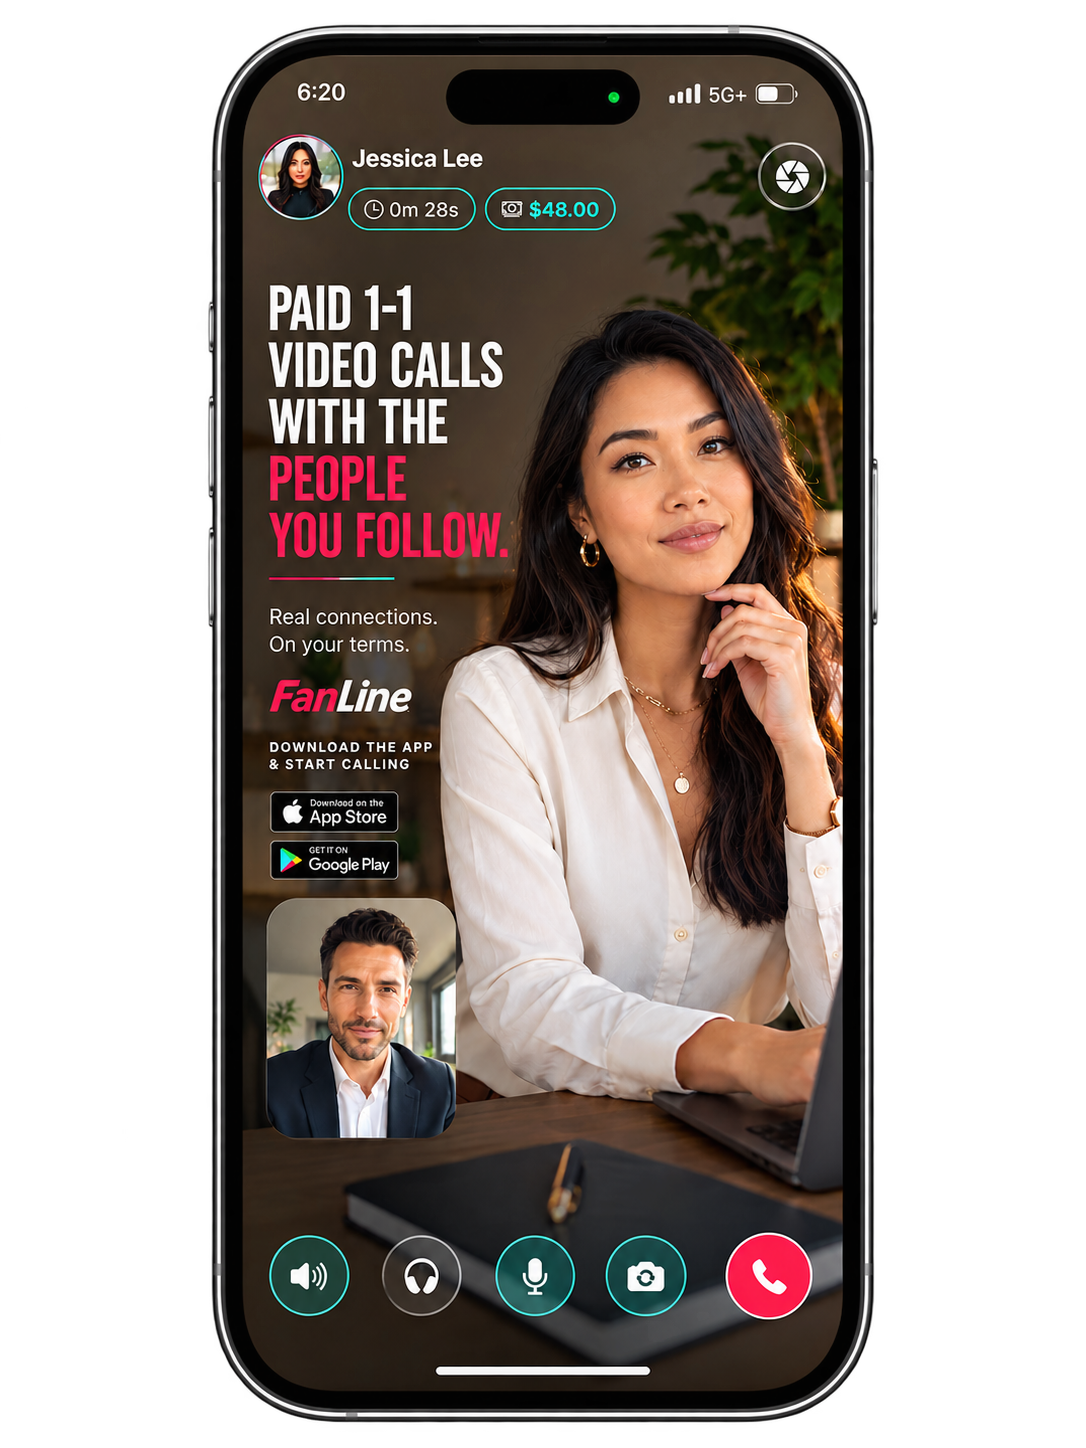
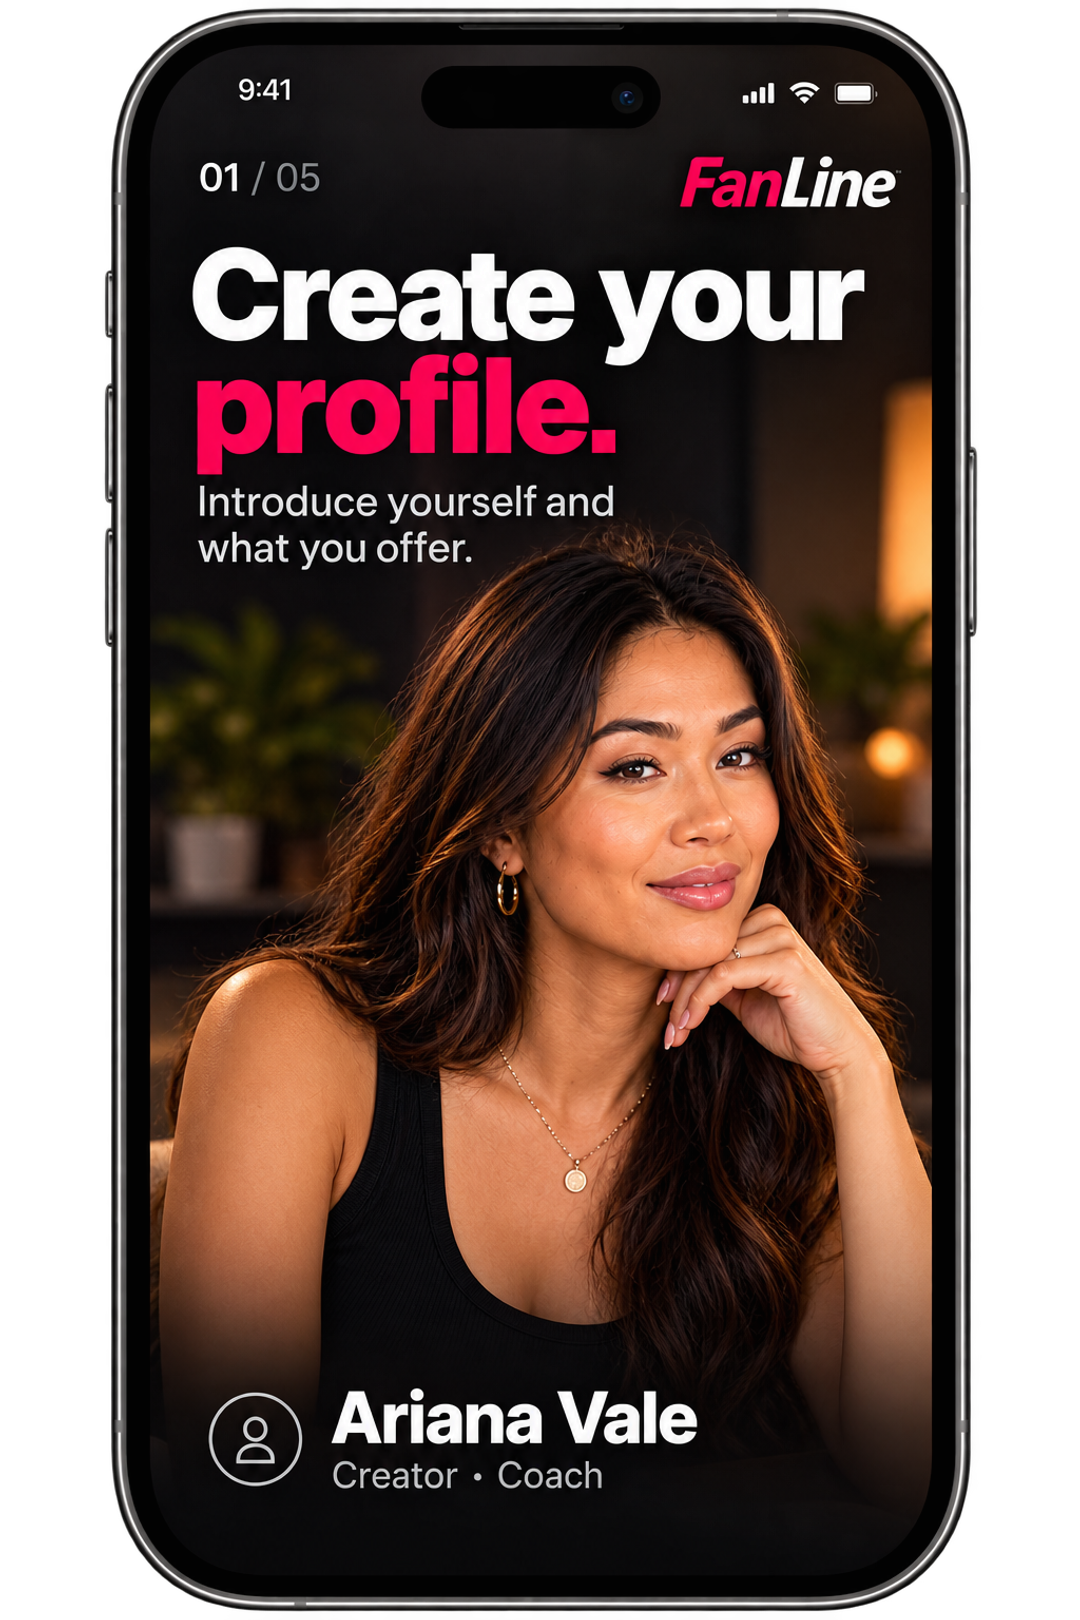
promo carousel update and storefront

diff --git a/app/data/apps.js b/app/data/apps.js
@@ -16,65 +16,66 @@ export const apps = [
   {
     id: "fanline",
     path: "/fanline",
-    name: "FanLine: Influencer Access",
-    storeName: "FanLine: Influencer Access",
-    eyebrow: "Direct access to influencers and creators",
-    status: "Now live on iOS - Also available on Android",
-    headline: "Connect one-on-one with the people you follow.",
+    name: "FanLine: Content Creator Tools",
+    storeName: "FanLine: Content Creator Tools",
+    eyebrow: "Paid Calls, Messages, Bookings",
+    status: "Available on iOS and Android",
+    headline: "Earn from your time, knowledge, and audience.",
     description:
-      "FanLine: Influencer Access brings you closer to influencers, creators, and experts through private video calls, direct messages, and scheduled bookings. Ask questions, get advice, or pitch a collaboration with clear pricing before you connect.",
+      "FanLine: Content Creator Tools helps creators, coaches, and experts offer paid video calls, personal replies, and scheduled bookings. Set your prices and bring followers to your profile with one shareable link.",
     longDescription:
-      "Find creators who are available now or book a private conversation for later. Explore profiles and intro videos, send a message, or reach out about a brand deal, podcast appearance, or business opportunity. Creators set their own call and message rates, manage availability, and choose the opportunities they welcome. Paid calls are charged only when they connect; paid messages are charged when you choose to unlock the creator's response.",
+      "FanLine: Content Creator Tools helps creators, coaches, and experts offer paid video calls, personal replies, and scheduled bookings. Set your prices and bring followers to your profile with one shareable link.",
     disclaimer:
       "FanLine creators are independent users. Information shared through FanLine is not a substitute for medical, legal, financial, or other professional advice.",
     logo: "/assets/fanline/fanlineLogo.png",
-    poster: "/assets/fanline/appStoreFront/app1.png",
+    poster: "/assets/fanline/newStoreFront/app1.png",
     video: null,
     accent: "#00ddeb",
     accentAlt: "#ff174f",
     theme: "fanline",
     website: "https://joinfanline.com/",
-    schemaCategory: "SocialNetworkingApplication",
+    schemaCategory: "BusinessApplication",
     platforms: ["iOS", "Android"],
     highlights: [
-      "Paid one-on-one video calls",
-      "Private paid messages and scheduled bookings",
-      "Creator profiles with rates, availability, and categories",
-      "Secure payments with no charge unless a call connects or a message is unlocked",
-      "Trust, reporting, and verification workflows for safer access",
+      "Set your per-minute video call rate",
+      "Earn when followers unlock your personal replies",
+      "Manage your availability and scheduled bookings",
+      "Share one profile link across your social channels",
+      "Track earnings from calls, messages, and creator referrals",
     ],
+    featuresHeading: "Grow your creator business",
     detailSections: [
       {
-        title: "Direct creator access",
-        body: "Fans can browse creators by name, category, price, or availability, then start a call, send a message, or book a time that fits both sides.",
+        title: "Get paid for your expertise",
+        body: "Offer private calls and paid replies at prices you control.",
       },
       {
-        title: "Creator monetization",
-        body: "Creators can set call and message rates, show public profiles, manage availability, and turn high-intent followers into paid conversations.",
+        title: "Bring your audience with you",
+        body: "Add your profile link to your bio, posts, or website so followers can reach you directly.",
       },
       {
-        title: "Clear payments and trust",
-        body: "FanLine is built around transparent pricing, secure payments, creator review workflows, reporting tools, and access controls for paid one-on-one conversations.",
+        title: "Make room for bookings",
+        body: "Choose available times and manage requests around your creator business.",
       },
     ],
     seo: {
-      title: "FanLine: Influencer Access | Video Calls & Messages",
+      title: "FanLine: Content Creator Tools | Paid Calls, Messages, Bookings",
       description:
-        "Get FanLine: Influencer Access on iOS. Video call influencers, message creators, book expert conversations, and pitch collaborations with clear pricing.",
+        "FanLine: Content Creator Tools for iOS and Android. Earn from paid calls, messages, and bookings. Set your rates and share your creator profile.",
       keywords: [
-        "FanLine: Influencer Access",
-        "influencer access",
+        "FanLine: Content Creator Tools",
+        "content creator tools",
         "creator calls",
         "paid video calls",
         "paid messages",
         "creator booking app",
-        "fan access app",
+        "creator profile link",
         "creator monetization",
         "Real Connection Lab",
       ],
     },
-    ogImage: "/assets/fanline/appStoreFront/app1.png",
-    lastModified: "2026-09-10",
+    ogImage: "/assets/fanline/newStoreFront/app1.png",
+    lastModified: "2026-10-21",
     sitemapPriority: 0.82,
     sitemapChangeFrequency: "weekly",
     links: [
@@ -90,58 +91,48 @@ export const apps = [
       },
     ],
     screenshotPreview: true,
-    screenshots: [
-      "/assets/fanline/appStoreFront/app1.png",
-      "/assets/fanline/appStoreFront/app2.png",
-      "/assets/fanline/appStoreFront/app3.png",
-      "/assets/fanline/appStoreFront/app4.png",
-      "/assets/fanline/appStoreFront/app5.png",
-      "/assets/fanline/appStoreFront/app6.png",
-      "/assets/fanline/appStoreFront/app7.png",
-    ],
-    screenshotDimensions: [
-      { width: 1260, height: 2736 },
-      { width: 1290, height: 2796 },
-      { width: 1290, height: 2796 },
-      { width: 1260, height: 2736 },
-      { width: 1260, height: 2736 },
-      { width: 1260, height: 2736 },
-      { width: 1260, height: 2736 },
-    ],
+    screenshots: Array.from({ length: 10 }, (_, index) => `/assets/fanline/newStoreFront/app${index + 1}.png`),
+    screenshotDimensions: Array.from({ length: 10 }, () => ({ width: 1320, height: 2868 })),
     promoImages: [
       {
-        src: "/assets/fanline/promoCarousel/promo1.png",
-        alt: "FanLine promotional slide 1",
-        width: 1086,
-        height: 1448,
+        src: "/assets/fanline/promoCarousel/promo1.png?v=8af3752701",
+        alt: "Create your FanLine creator profile",
+        width: 1080,
+        height: 1620,
       },
       {
-        src: "/assets/fanline/promoCarousel/promo2.png",
-        alt: "FanLine promotional slide 2",
-        width: 1024,
-        height: 1536,
+        src: "/assets/fanline/promoCarousel/promo2.png?v=564fa0fd46",
+        alt: "Set your FanLine rates and availability",
+        width: 1080,
+        height: 1620,
       },
       {
-        src: "/assets/fanline/promoCarousel/promo3.png",
-        alt: "FanLine promotional slide 3",
-        width: 1024,
-        height: 1536,
+        src: "/assets/fanline/promoCarousel/promo3.png?v=3c3d85c22a",
+        alt: "Share your FanLine profile link",
+        width: 1080,
+        height: 1620,
       },
       {
-        src: "/assets/fanline/promoCarousel/promo4.png",
-        alt: "FanLine promotional slide 4",
-        width: 1024,
-        height: 1536,
+        src: "/assets/fanline/promoCarousel/promo4.png?v=f472d0e0eb",
+        alt: "Give followers a direct link to your FanLine",
+        width: 1080,
+        height: 1620,
       },
       {
-        src: "/assets/fanline/promoCarousel/promo5.png",
-        alt: "FanLine promotional slide 5",
-        width: 1086,
-        height: 1448,
+        src: "/assets/fanline/promoCarousel/promo5.png?v=2d1a956cdb",
+        alt: "Connect with your audience through calls, bookings, and replies",
+        width: 1080,
+        height: 1620,
       },
       {
-        src: "/assets/fanline/promoCarousel/promo6.png",
-        alt: "FanLine promotional slide 6",
+        src: "/assets/fanline/promoCarousel/promo6.png?v=2b067a8a65",
+        alt: "Earn from your time with FanLine",
+        width: 1080,
+        height: 1620,
+      },
+      {
+        src: "/assets/fanline/promoCarousel/promo7.png?v=0e2ddfe011",
+        alt: "Refer creators to FanLine and earn referral income",
         width: 1254,
         height: 1254,
       },

diff --git a/app/components/PhoneCarousel.js b/app/components/PhoneCarousel.js
@@ -8,7 +8,7 @@ import ContentPreviewSlider from "./ContentPreviewSlider";
 import usePrefersReducedMotion from "./usePrefersReducedMotion";
 import styles from "./PhoneCarousel.module.css";
 
-// The same six positions and spring animation as the FanLine homepage.
+// Keep the front and side positions consistent as the number of promos changes.
 const stackSlots = [
   { x: 0, y: 0, scale: 1, rotate: 0, opacity: 1, zIndex: 60 },
   { x: 150, y: 28, scale: 0.86, rotate: 8, opacity: 0.86, zIndex: 48 },
@@ -17,6 +17,20 @@ const stackSlots = [
   { x: -286, y: 62, scale: 0.72, rotate: -14, opacity: 0.56, zIndex: 30 },
   { x: -150, y: 28, scale: 0.86, rotate: -8, opacity: 0.86, zIndex: 48 },
 ];
+
+function getStackSlot(index, imageCount) {
+  if (index < 3) return stackSlots[index];
+  if (index >= imageCount - 2) {
+    return stackSlots[index - imageCount + stackSlots.length];
+  }
+
+  const rearCount = imageCount - 5;
+  const rearIndex = index - 3;
+  return {
+    ...stackSlots[3],
+    x: rearCount > 1 ? 48 * (1 - (2 * rearIndex) / (rearCount - 1)) : 0,
+  };
+}
 
 export default function PhoneCarousel({ app, priority = false }) {
   const images = app.promoImages;
@@ -86,7 +100,7 @@ export default function PhoneCarousel({ app, priority = false }) {
       >
         {images.map((image, imageIndex) => {
           const slotIndex = wrapIndex(imageIndex - activeIndex);
-          const slot = stackSlots[slotIndex];
+          const slot = getStackSlot(slotIndex, images.length);
           return (
             <motion.button
               type="button"

diff --git a/app/layout.js b/app/layout.js
@@ -3,7 +3,7 @@ import SiteNavbar from "./components/SiteNavbar";
 import { apps, company } from "./data/apps";
 
 const siteDescription =
-  "Explore FanLine: Influencer Access, Rise Again: Quit Drinking, Myxer, and CineCue from Real Connection Lab LLC: apps for creator calls, sobriety support, video dating, and free teleprompter recording.";
+  "Explore FanLine: Content Creator Tools, Rise Again: Quit Drinking, Myxer, and CineCue from Real Connection Lab LLC: apps for creator earnings, sobriety support, video dating, and free teleprompter recording.";
 
 export const metadata = {
   metadataBase: new URL(company.url),
@@ -16,10 +16,10 @@ export const metadata = {
   keywords: [
     "Real Connection Lab LLC",
     "Real Connection Lab",
-    "FanLine: Influencer Access",
+    "FanLine: Content Creator Tools",
     "Rise Again: Quit Drinking",
     "Myxer",
-    "creator calls",
+    "content creator tools",
     "quit drinking app",
     "sobriety tracker",
     "video speed dating",

diff --git a/app/page.js b/app/page.js
@@ -18,7 +18,7 @@ export default function Home() {
         <div className="hero-visual" aria-hidden="true">
           <Image
             className="hero-shot hero-shot-one"
-            src="/assets/fanline/appStoreFront/app1.png"
+            src="/assets/fanline/newStoreFront/app1.png"
             alt=""
             width={310}
             height={674}
@@ -54,7 +54,7 @@ export default function Home() {
           </h1>
           <p className="hero-copy">
             We build social, recovery, dating, and creator apps for real human
-            moments: a fan call, a sober check-in, a video date, or your next great take.
+            moments: a paid creator call, a sober check-in, a video date, or your next great take.
           </p>
           <div className="hero-actions">
             <a className="primary-action" href={company.phoneHref}>

diff --git a/app/[appId]/page.js b/app/[appId]/page.js
@@ -188,7 +188,7 @@ export default async function AppDetailPage({ params }) {
       <section className="app-detail-content" aria-labelledby={`${app.id}-features`}>
         <div className="section-inner">
           <p className="section-label">{app.name} features</p>
-          <h2 id={`${app.id}-features`}>Built for real moments</h2>
+          <h2 id={`${app.id}-features`}>{app.featuresHeading ?? "Built for real moments"}</h2>
           <div className="app-detail-grid">
             {app.detailSections.map((section) => (
               <article className="app-detail-card" key={section.title}>

diff --git a/next.config.js b/next.config.js
@@ -1,6 +1,13 @@
 /** @type {import('next').NextConfig} */
 const nextConfig = {
   allowedDevOrigins: ["127.0.0.1"],
+  images: {
+    localPatterns: [
+      { pathname: "/**", search: "" },
+      // Content versions refresh replaced promo artwork in the image cache.
+      { pathname: "/assets/fanline/promoCarousel/*" },
+    ],
+  },
   async redirects() {
     return [
       {

diff --git a/app/components/PhoneCarousel.module.css b/app/components/PhoneCarousel.module.css
@@ -98,7 +98,11 @@
   flex-wrap: wrap;
 }
 
-.dots { flex: 0 0 auto; }
+.dots {
+  flex: 0 1 auto;
+  flex-wrap: wrap;
+  max-width: 100%;
+}
 
 .dots button,
 .playback {
